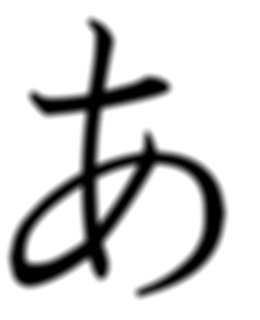
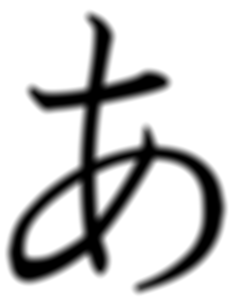
Cover Image is now scaling

Changed region(s): [[0.0, 0.0295, 0.7231, 0.9443], [0.4917, 0.4721, 0.9545, 0.9738], [0.1157, 0.2656, 0.2025, 0.3541]]

diff --git a/qml/cover/CoverPage.qml b/qml/cover/CoverPage.qml
@@ -34,6 +34,9 @@ import Sailfish.Silica 1.0
 CoverBackground {
     Image {
         id: coverImage
+        height: parent.height
+        width: parent.width
+        fillMode: Image.PreserveAspectFit
         source: "cover.png"
     }
     Label {
